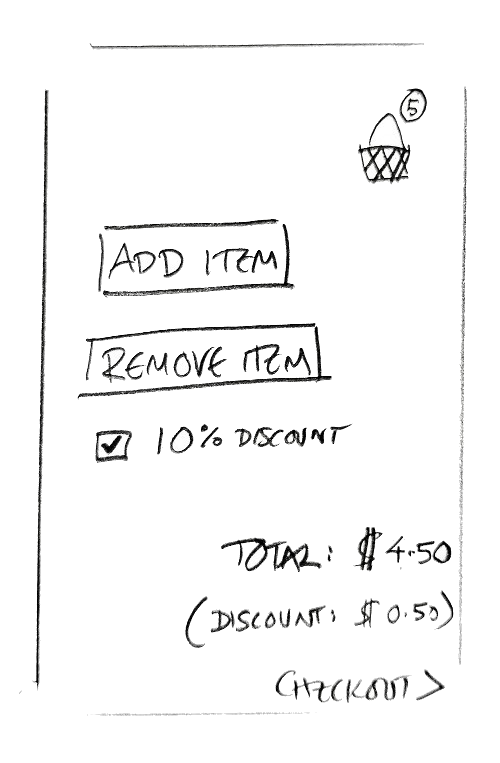
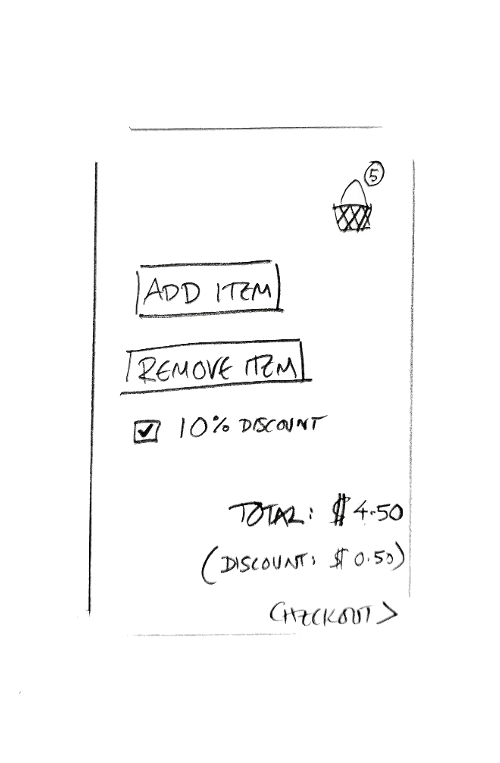
center images

diff --git a/docs/css/cayman-made-orange.css b/docs/css/cayman-made-orange.css
@@ -159,7 +159,14 @@ a:hover { text-decoration: underline; }
 @media screen and (min-width: 64em) { .main-content { max-width: 64rem; padding: 2rem 6rem; margin: 0 auto; font-size: 1.1rem; } }
 @media screen and (min-width: 42em) and (max-width: 64em) { .main-content { padding: 2rem 4rem; font-size: 1.1rem; } }
 @media screen and (max-width: 42em) { .main-content { padding: 2rem 1rem; font-size: 1rem; } }
-.main-content img { max-width: 100%; }
+
+.main-content img {
+    max-width: 100%;
+    margin-left: auto;
+    margin-right: auto;
+    display: block;
+}
+    
 .main-content h1, .main-content h2, .main-content h3, .main-content h4, .main-content h5, .main-content h6 { margin-top: 2rem; margin-bottom: 1rem; font-weight: normal; color: #ff512f; }
 .main-content p { margin-bottom: 1em; }
 .main-content code { padding: 2px 4px; font-family: Consolas, "Liberation Mono", Menlo, Courier, monospace; font-size: 0.9rem; color: #515673; background-color: #f3f6fa; border-radius: 0.3rem; }
